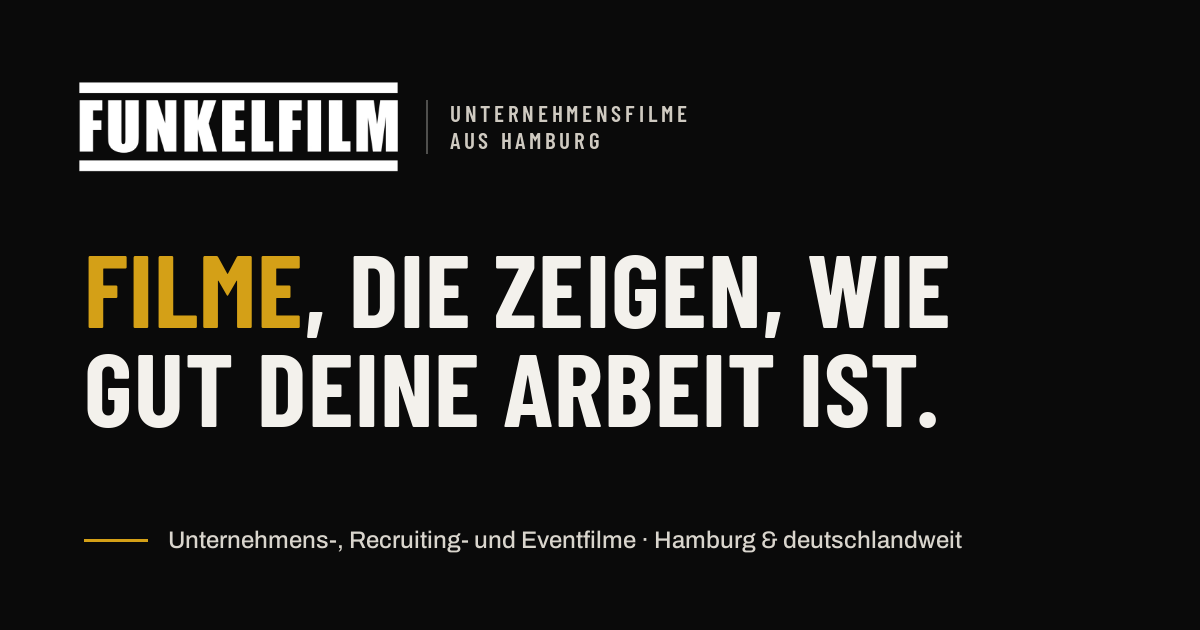
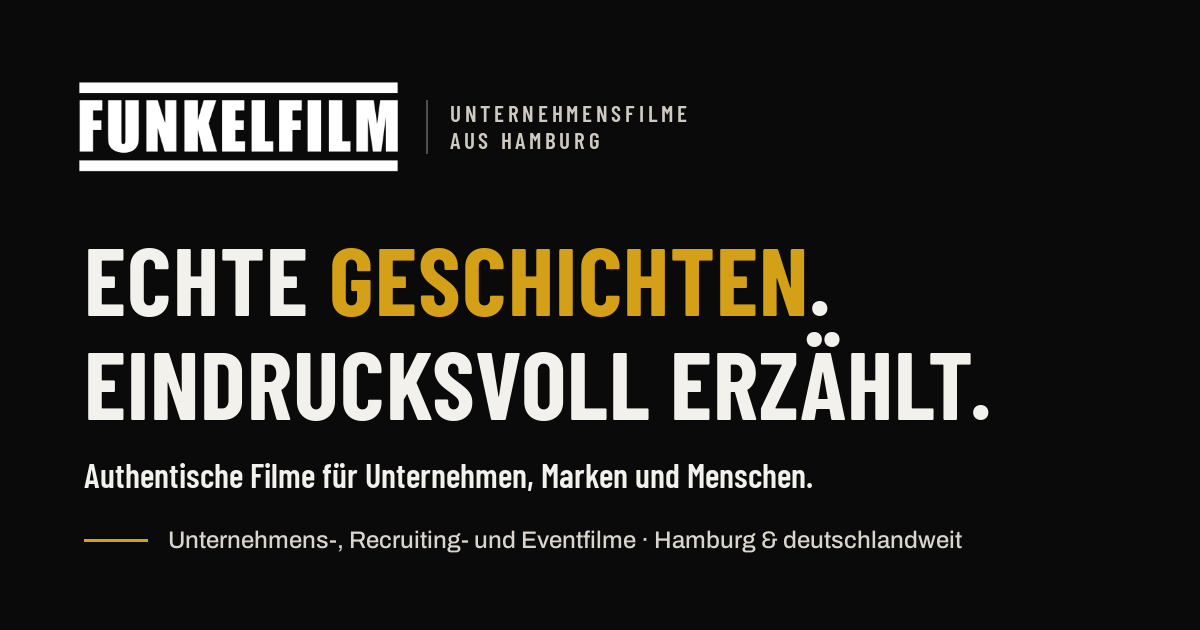
Runde Jamil 4306–4321: Begriffe, Nutzen, Projektor, Übergang, „Menschen vertrauen Menschen“ entfernt; Filmstreifen; neue Reihenfolge; neue Hero-Texte
- Hero ohne Text-Overlays (4306), „Was dein Film für dich tut.“ raus (4307), Schluss ohne Lichtkegel-Animation (4309)
- Übergangszeile mit Pfeil (4311) und Abschnitt „Menschen vertrauen Menschen.“ (4313) entfernt
- „Kommt dir das bekannt vor?“ als 35-mm-Filmstreifen, ohne rough.js, Einlauf + Belichtung, am Handy wischbar (4314, Variante A)
- Reihenfolge: Ablauf nach „Mensch“, Einsatzgebiet direkt vor FAQ (4316/4317)
- H1 „Echte Geschichten. / Eindrucksvoll erzählt.“ + Subheadline (4319), Kennzeile weg (4320)
- Logo-Unterzeile: Varianten A/B zentral in daten.ts, vorerst B ohne Doppelung (4321); og.png neu

Changed region(s): [[0.0617, 0.3921, 0.8325, 0.6937], [0.0617, 0.7238, 0.6783, 0.7841]]

diff --git a/src/daten.ts b/src/daten.ts
@@ -14,8 +14,21 @@ export const INHABER = 'Sheeras Iqbal';
 export const VORNAME = 'Sheeras';
 export const ORT = 'Hamburg';
 export const MAIL = 'kontakt@funkelfilm.com';
-/** Feste Unterzeile zum Logo (Can 02.11.2026); als Logo-Bestandteil mit Funkelfilm abstimmen (OFFENE-INFOS 5). */
-export const LOGO_UNTERZEILE = 'Unternehmensfilme aus Hamburg';
+/** Feste Unterzeile zum Logo, zweizeilig; als Logo-Bestandteil mit Funkelfilm abstimmen (OFFENE-INFOS 5).
+ *  Jamil 4321 wollte „Echte Geschichten. / Aus Hamburg erzählt.“, aber keine Doppelung mit der H1 („nein keine Dopplung“).
+ *  Bis zu seiner Entscheidung gilt Variante B. Umstellen = EINE Zeile: VARIANTE (unten); og.png danach neu erzeugen.
+ *  A: Logo „Echte Geschichten. / Aus Hamburg erzählt.“ + H1 „Authentische Filme. / Eindrucksvoll erzählt.“
+ *  B: Logo „Unternehmensfilme / aus Hamburg“ + H1 „Echte Geschichten. / Eindrucksvoll erzählt.“ (aktiv) */
+export const LOGO_UNTERZEILEN = {
+  a: ['Echte Geschichten.', 'Aus Hamburg erzählt.'] as [string, string],
+  b: ['Unternehmensfilme', 'aus Hamburg'] as [string, string],
+};
+export const HERO_TITEL = {
+  a: { vor: 'Authentische ', wort: 'Filme', nach: '.', zeile2: 'Eindrucksvoll erzählt.' },
+  b: { vor: 'Echte ', wort: 'Geschichten', nach: '.', zeile2: 'Eindrucksvoll erzählt.' },
+};
+export const VARIANTE: 'a' | 'b' = 'b';
+export const LOGO_UNTERZEILE = LOGO_UNTERZEILEN[VARIANTE];
 export const CLAIM = 'Echte Geschichten. Authentische Videos.';
 export const UNTERZEILE = 'Teile deine Botschaft in bewegten Bildern – ehrlich & kreativ.';
 export const BESCHREIBUNG =
@@ -279,15 +292,16 @@ export const UEBER = {
 // Fakten-Regel: Was die bisherige Seite nicht belegt, ist Platzhalter (VORSCHAU) und steht in OFFENE-INFOS.md.
 
 export const HERO = {
-  // H1 von Can (02.11.2026, Namens-Einschätzung): das Wort „Film“ steht sofort im Hero. Teile: [davor, Schlüsselwort in Gold, danach].
-  titel: ['', 'Filme', ', die zeigen, wie gut deine Arbeit ist.'] as [string, string, string],
-  // Jamils bisherige Headline (Talk 4222) bleibt wörtlich als Kennzeile über der H1.
-  kennzeile: 'Deine Arbeit verdient mehr Aufmerksamkeit.',
-  // Leistungen laut alter Seite; „deutschlandweit“ bestätigt (Jamil Talk 4231).
-  leistung: 'Unternehmens-, Recruiting- und Eventfilme aus Hamburg – deutschlandweit',
+  // Jamil 4319 (02.11.2026), wörtlich: H1 zweizeilig „Echte Geschichten. / Eindrucksvoll erzählt.“ – ersetzt Cans H1
+  // „Filme, die zeigen, wie gut deine Arbeit ist.“. Gold = „Geschichten“ (Kern der Marke, wie der alte Claim „Echte Geschichten.“).
+  titel: HERO_TITEL[VARIANTE], // Varianten oben bei LOGO_UNTERZEILEN
+  // Subheadline (Jamil 4319, wörtlich) – das Wort „Filme“ steht damit weiter sofort im Hero (Cans Klarheits-Ziel).
+  unter: 'Authentische Filme für Unternehmen, Marken und Menschen.',
+  // Leistungszeile ohne „aus Hamburg“ (steht schon in der Personenzeile); „deutschlandweit“ bestätigt (Jamil 4231).
+  leistung: 'Unternehmens-, Recruiting- und Eventfilme – deutschlandweit',
   // Schreibweise „Sheeras“ wie im Impressum der alten Seite (Frage „Sheeraz?“ offen, OFFENE-INFOS 15).
   person: { name: 'Sheeras Iqbal', rolle: 'Filmemacher & Videograph aus Hamburg' }, // „Videograph“ in Jamils Schreibweise (Talk 4240)
-  // Frühere Subline (Jamil 4222) im Hero entfernt (Can: „Subline knapp halten“); ihr Kernsatz steht weiter in der Seitenbeschreibung (index.astro).
+  // Kennzeile „Deine Arbeit verdient mehr Aufmerksamkeit.“ entfernt (Jamil 4320).
 };
 
 /** Einsatzgebiet (Can Talk 4242, 02.11.2026). „Deutschlandweit“ bestätigt (Jamil Talk 4231). Keine Projektorte behaupten –
@@ -318,18 +332,6 @@ export const VERTRAUEN = {
   stimmen: 'Was Kunden sagen',
 };
 
-/** Nutzen aus Kundensicht (Can Talk 4259: „Pack sehr geile Benefits rein“) – als Ergebnis formuliert, nur durch das Angebot gedeckt,
- *  keine Zahlen. „Nicht vor die Kamera“ = FAQ; „lange nutzbar“ = alte Seite („Website, Social Media & Co.“, Präsentationen). */
-export const NUTZEN = {
-  titel: 'Was dein Film für dich tut.',
-  punkte: [
-    'Bewerber sehen eure Kultur, bevor sie sich bewerben.',
-    'Ein Film, den du lange nutzt: Website, Social Media, Präsentationen.',
-    'Du musst nicht vor die Kamera, wenn du nicht willst.',
-    'Ein Ansprechpartner von der ersten Idee bis zum fertigen Film.',
-  ],
-};
-
 /** „Warum ein echter Filmemacher statt KI?“ (Can Talk 4259) – sachlich, ohne KI schlechtzumachen; Art. 50 KI-VO nur allgemein. */
 export const KI = {
   titel: 'Warum ein echter Filmemacher statt KI?',
@@ -346,9 +348,6 @@ export const KI = {
   hinweis: 'Für bestimmte KI-erzeugte Bilder und Videos sieht die EU-KI-Verordnung (Art. 50) eine Kennzeichnung vor. Das ist ein allgemeiner Hinweis, keine Rechtsberatung.',
 };
 
-/** Begriffe, die im Hero nacheinander über dem Film erscheinen (Can Talk 4255). Emotional, ohne Superlative/Alleinstellung (UWG). */
-export const HERO_BEGRIFFE = ['Echt.', 'Mit Gefühl erzählt.', 'Gänsehaut statt Werbespot.', 'Bild für Bild durchdacht.', 'Direkt vom Filmemacher.'];
-
 export const PROBLEM = {
   titel: 'Kommt dir das bekannt vor?',
   karten: [
@@ -357,13 +356,6 @@ export const PROBLEM = {
     'Neue Mitarbeiter kennen eure Kultur nicht.',
     'Es fehlt Vertrauen, bevor das erste Gespräch stattfindet.',
   ],
-  uebergang: 'Genau hier beginnt die Kraft einer echten Geschichte.',
-};
-
-export const LOESUNG = {
-  titel: 'Menschen vertrauen Menschen.',
-  text: 'Ein guter Film zeigt nicht nur, was du machst. Er zeigt:',
-  punkte: ['wie du arbeitest', 'wer hinter dem Unternehmen steht', 'warum Kunden gerne mit dir arbeiten', 'was dich besonders macht'],
 };
 
 /** Referenzen im Kartenstil. belegt=false → Platzhalter-Karte (kein echtes Projekt auf der alten Seite). */

diff --git a/public/js/seite.js b/public/js/seite.js
@@ -120,19 +120,6 @@ document.documentElement.classList.add("js");
         sucher.classList.add("steuerung"); clearTimeout(steuerUhr);
         steuerUhr = setTimeout(function () { sucher.classList.remove("steuerung"); }, 3000);
       });
-      // Wechselnde Begriffe über dem Film (Can 4255): laufen nur, solange der Film läuft; je ~2,6 s sichtbar
-      var begriffe = sucher.querySelectorAll(".begriff");
-      if (video && begriffe.length && !ruhig && !sparen) {
-        begriffe[0].classList.remove("aktiv");
-        var nr = -1, wechsel = null;
-        var naechster = function () {
-          if (nr >= 0) begriffe[nr].classList.remove("aktiv");
-          nr = (nr + 1) % begriffe.length;
-          setTimeout(function () { begriffe[nr].classList.add("aktiv"); }, nr === 0 && !wechsel ? 0 : 800);
-        };
-        video.addEventListener("playing", function () { if (!wechsel) { naechster(); wechsel = setInterval(naechster, 3400); } });
-        video.addEventListener("pause", function () { clearInterval(wechsel); wechsel = null; });
-      }
     }
     // Clips im Kopf der Unterseiten
     document.querySelectorAll("[data-autoclip]").forEach(function (box) {

diff --git a/OFFENE-INFOS.md b/OFFENE-INFOS.md
@@ -9,7 +9,7 @@ Stand: 02.11.2026 (nach Jamils Konzept „FUNKELFILM 2027“, Talk 4222; Hero un
 3. **Projekte:** Vier Filme, die auf der alten Seite eingebunden sind (Startseite, Testimonials, Recruiting, Veranstaltung), sind auf YouTube nicht mehr abrufbar. Abrufbar sind nur „Die Goldmalerin | Imagefilm“ und „Nexus Fighter Academy | NEXUS KIDS | Eindrücke“. Bitte eine Projektliste liefern: Titel, Kunde, Art des Films, Link, Freigabe zur Nennung.
 4. **Bildherkunft:** Vier Bilder der alten Seite („Warum Imagefilm/Testimonials/Recruiting/Veranstaltungsfilm“) wirken wie Archiv- oder KI-Bilder. Sie sind nicht übernommen. Falls es eigene Aufnahmen sind: bitte Bescheid geben.
 5. **Logo:** nur als PNG vorhanden. Bitte Vektordatei (SVG/PDF/AI) und ggf. Farbwerte/Schriften aus einem CI-Handbuch.
-   - **Unterzeile als festen Logo-Bestandteil mit Funkelfilm abstimmen; Vektor-Logo nötig.** Die Vorschau zeigt „Unternehmensfilme aus Hamburg“ als Text neben dem Logo (Kopf- und Fußzeile, Can 02.11.2026). Für eine feste Logo-Fassung mit Unterzeile braucht es die Vektordatei.
+   - **Unterzeile als festen Logo-Bestandteil mit Funkelfilm abstimmen; Vektor-Logo nötig.** Die Vorschau zeigt „Unternehmensfilme / aus Hamburg“ als Text neben dem Logo (Kopf- und Fußzeile). Jamil wünscht „Echte Geschichten. / Aus Hamburg erzählt.“ (4321), aber ohne Doppelung mit der H1 – Entscheidung zwischen Variante A und B offen (eine Zeile `VARIANTE` in `src/daten.ts`). Für eine feste Logo-Fassung mit Unterzeile braucht es die Vektordatei.
 
 ## Inhalte und Angaben
 
@@ -43,5 +43,5 @@ Stand: 02.11.2026 (nach Jamils Konzept „FUNKELFILM 2027“, Talk 4222; Hero un
 
 24. **Paket „Funkelfilm Kompakt“:** Can schlägt ein festes Einstiegspaket vor (02.11.2026). Erst Inhalt, Umfang und Preis mit Funkelfilm klären, dann auf der Seite ergänzen.
 25. **Erfahrung:** Die alte Seite nennt „2015 – Der Anfang“, „seit 2017“ und „über 8 Jahre Erfahrung“. Die Startseite nutzt nur „Seit 2017“ (mehrfach belegt). Bitte bestätigen.
-26. **Neue Texte (Can 4255/4259) bitte von Sheeras freigeben:** Begriffe im Hero („Echt.“, „Mit Gefühl erzählt.“, „Gänsehaut statt Werbespot.“, „Bild für Bild durchdacht.“, „Direkt vom Filmemacher.“), „Was dein Film für dich tut.“ und der Abschnitt „Warum ein echter Filmemacher statt KI?“ (allgemeiner Hinweis auf Art. 50 KI-Verordnung, keine Rechtsberatung).
+26. **Neuer Text bitte von Sheeras freigeben:** der Abschnitt „Warum ein echter Filmemacher statt KI?“ (allgemeiner Hinweis auf Art. 50 KI-Verordnung, keine Rechtsberatung). Die Hero-Begriffe und „Was dein Film für dich tut.“ sind wieder entfernt (Jamil 4306/4307).
 

diff --git a/BILDER.md b/BILDER.md
@@ -6,7 +6,7 @@ Alle Dateien stammen von funkelfilm.com (Abruf 01.11.2026) und sind **nur zur Vo
 |---|---|---|
 | logo-weiss-480/960.png | Logo im Kopf der Seite (PNG) | verkleinert |
 | favicon-32.png, apple-touch-icon.png | Favicon (FF-Zeichen) | verkleinert |
-| og.png | Teilen-Vorschau: Logo + Unterzeile + H1 auf Schwarz #0A0A0A, „Filme“ in Gold #D4A017, Barlow Condensed (02.11.2026, kein Blau) | neu gesetzt |
+| og.png | Teilen-Vorschau: Logo + Unterzeile „Unternehmensfilme / aus Hamburg“ (Variante B) + H1 „Echte Geschichten. Eindrucksvoll erzählt.“ (Gold: „Geschichten“) + Subheadline auf Schwarz #0A0A0A, Barlow Condensed (02.11.2026) | neu gesetzt |
 | bilder/sheeras-rund-112/168, sheeras-kreis-400/680 | Hero (Mini-Porträt) und „Hinter jedem Film steht ein Mensch“ | quadratischer Ausschnitt aus dem Originalfoto (1280 × 2274), Gesicht mittig und größer (Jamil 4253), Graustufen |
 | bilder/sheeras-pullover-* | Über uns, Porträt | Zuschnitt 4:5 |
 | bilder/gimbal-* | Startseite „Lass uns deine Vision …“ | Zuschnitt 16:10 |
